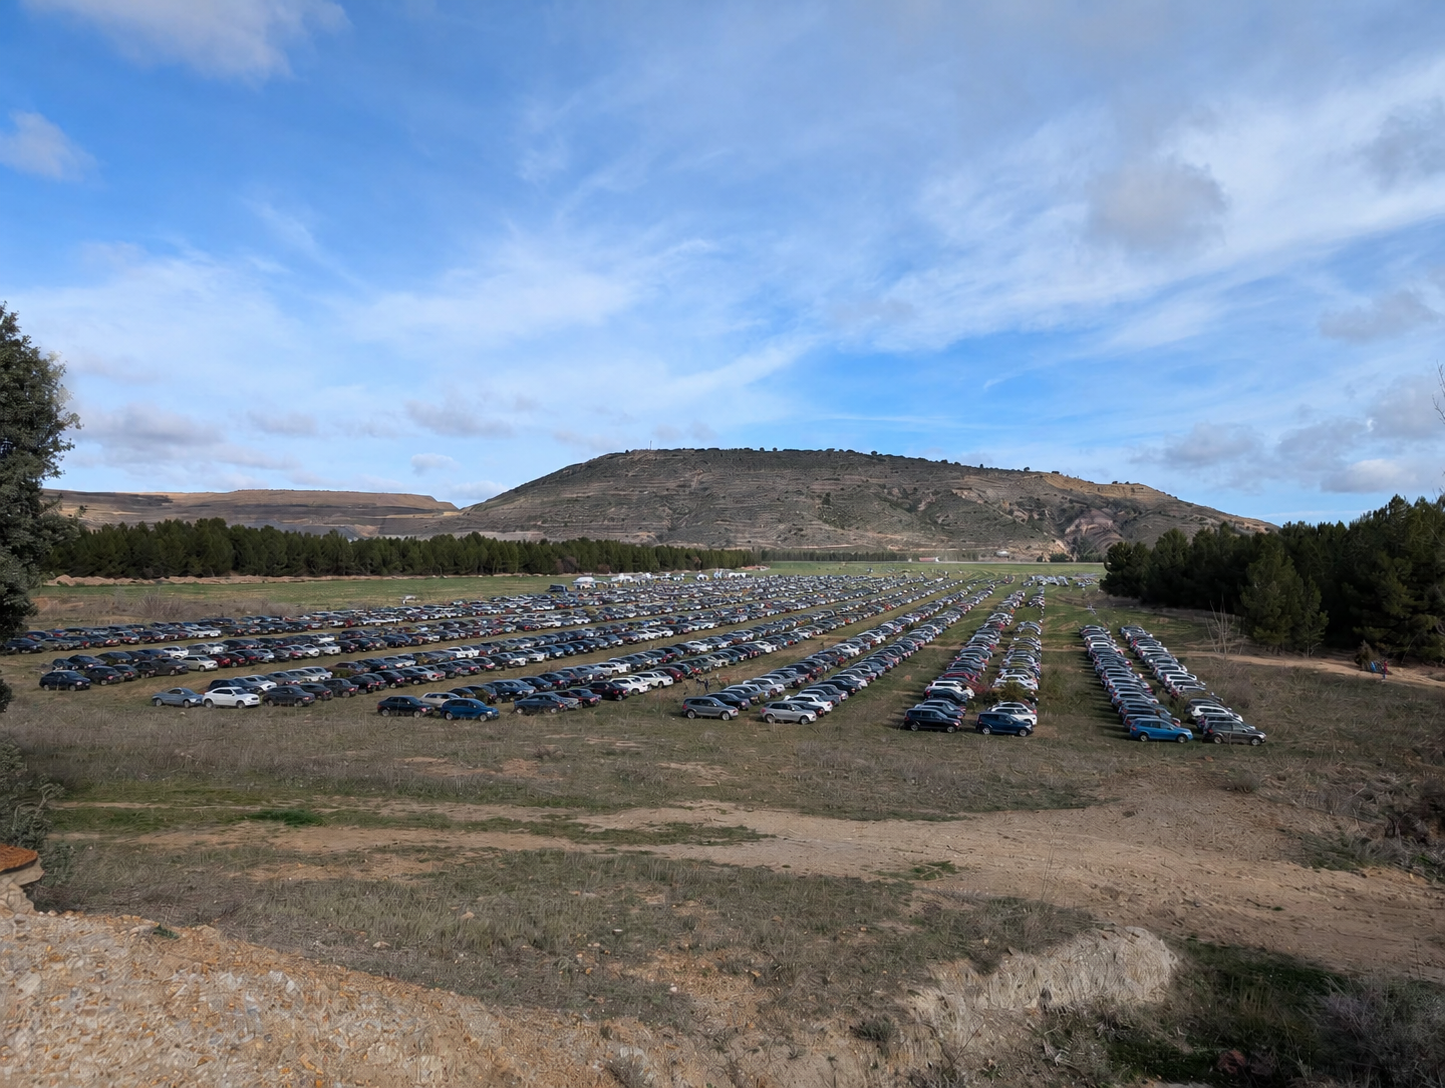
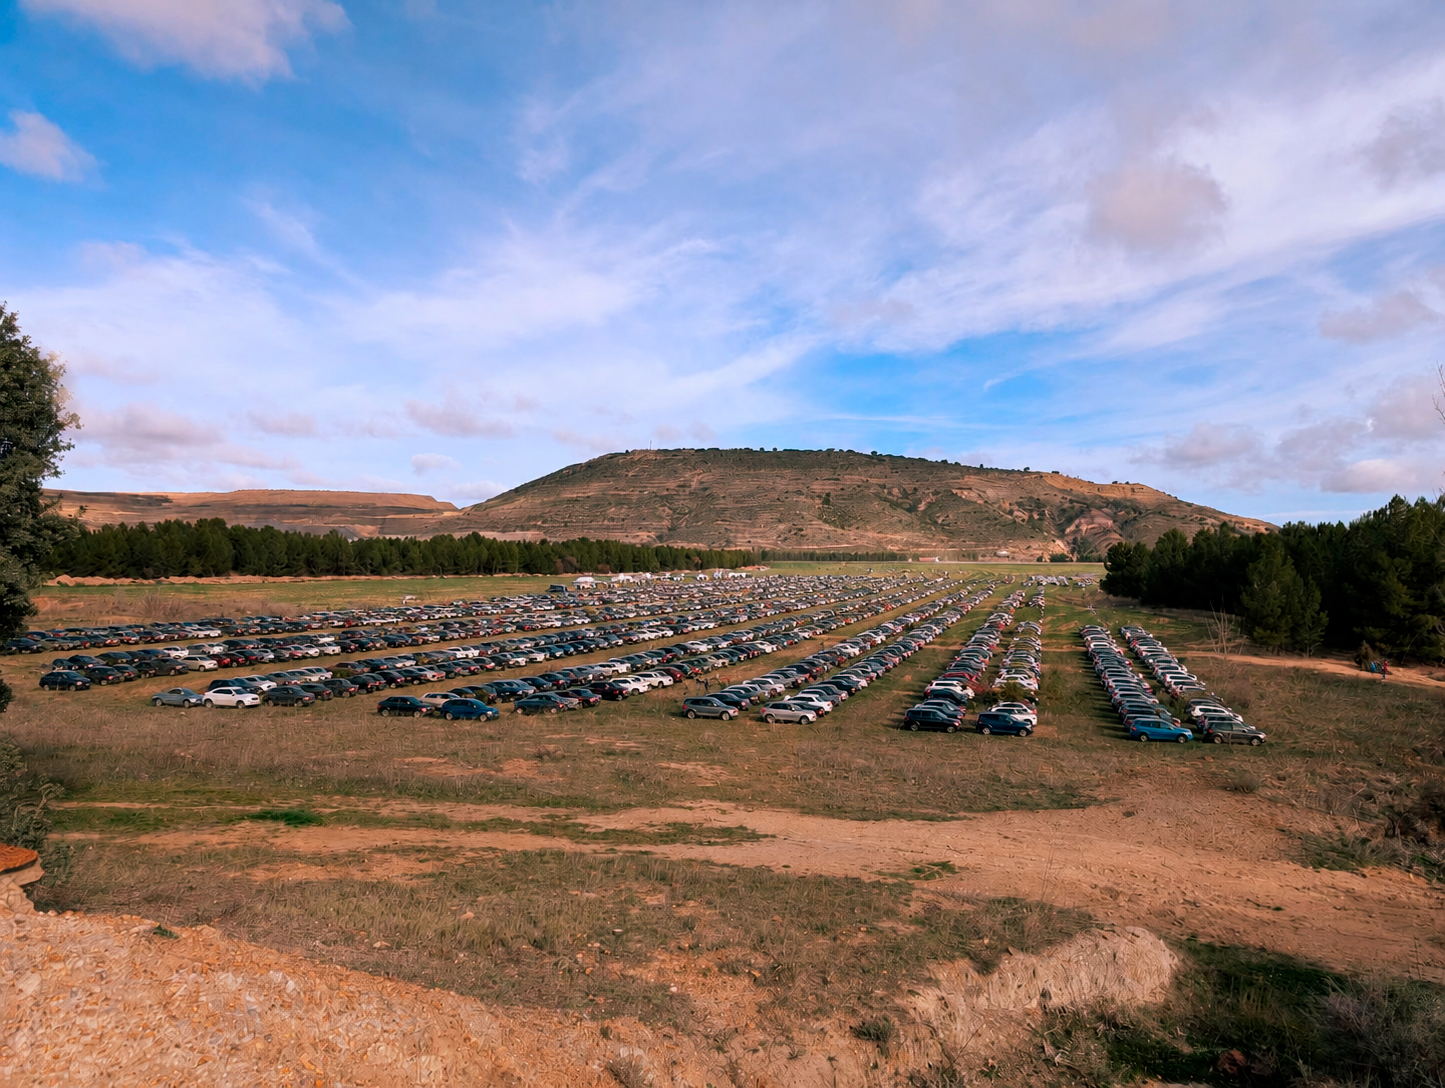
añadidas imagenes al mapa interactivo

diff --git a/js/main.js b/js/main.js
@@ -30,18 +30,32 @@ document.querySelectorAll(".accordion-btn").forEach((button) => {
   });
 });
 
-// ── MAPA INTERACTIVO ───────────────────────────────────────────
-const mapButtons = document.querySelectorAll(".map-point");
-const mapInfo    = document.getElementById("mapInfo");
 
-if (mapButtons.length && mapInfo) {
-  mapButtons.forEach((button) => {
-    button.addEventListener("click", () => {
-      const title = button.dataset.title || "";
-      const text  = button.dataset.text  || "";
-      mapInfo.innerHTML = `<h3>${title}</h3><p>${text}</p>`;
-      mapButtons.forEach((btn) => btn.classList.remove("selected"));
-      button.classList.add("selected");
+/* ── MAPA INTERACTIVO ───────────────────────────────────── */
+
+const mapPoints = document.querySelectorAll(".map-point");
+const mapInfo = document.getElementById("mapInfo");
+
+if (mapPoints.length && mapInfo) {
+  mapPoints.forEach((point) => {
+    point.addEventListener("click", () => {
+      const title = point.getAttribute("data-title");
+      const text = point.getAttribute("data-text");
+      const img = point.getAttribute("data-img");
+
+      mapPoints.forEach((p) => p.classList.remove("active"));
+      point.classList.add("active");
+
+      mapInfo.innerHTML = `
+        <h3>${title}</h3>
+        <p>${text}</p>
+        <img
+          src="${img}"
+          alt="${title}"
+          class="map-info-img"
+          loading="lazy"
+          decoding="async">
+      `;
     });
   });
 }

diff --git a/index.html b/index.html
@@ -684,7 +684,7 @@
           class="map-point camping"
           type="button"
           data-title="Zona de camping"
-          data-text="Parcelas de 5x7 metros para hasta 4 personas. Espacio para tiendas propias, campers y autocaravanas."
+          data-text=" camping con tienda propia, glamping, autocaravanas y campers, barra de bebidas, wc, duchas."
           data-img="assets/img/mapa/camping.png">
           Camping
         </button>
@@ -693,7 +693,7 @@
           class="map-point visionado"
           type="button"
           data-title="Zona de visionado"
-          data-text="Área preparada para observar el eclipse total de Sol con explicación guiada y recomendaciones de seguridad."
+          data-text="Junto al recinto, para la observación del eclipse, observación astronómica, Perseidas."
           data-img="assets/img/mapa/visionado.png">
           Visionado
         </button>
@@ -711,7 +711,8 @@
           class="map-point actividades"
           type="button"
           data-title="Zona de actividades"
-          data-text="Espacio para talleres de astronomía, actividades familiares, cine del cosmos, catas, agromercado y merchandising."
+          data-text="Actividades y charlas astronómicas, ciclo de cine del Cosmos, barras de bebidas, agromercado, taquillas, wc.
+"
           data-img="assets/img/mapa/actividades.png">
           Actividades
         </button>
@@ -720,7 +721,7 @@
           class="map-point parking"
           type="button"
           data-title="Parking"
-          data-text="Parking privado dentro del Festival."
+          data-text="Parking privado junto al Festival."
           data-img="assets/img/mapa/parking.png">
           Parking
         </button>
@@ -730,7 +731,7 @@
           type="button"
           data-title="Acceso principal"
           data-text="Entrada principal al recinto del festival."
-          data-img="assets/img/mapa/acceso.jpg">
+          data-img="assets/img/mapa/acceso.png">
           Acceso principal
         </button>
       </div>
@@ -744,7 +745,7 @@
         </p>
 
         <img
-          src="assets/img/mapa/default.jpg"
+          src="assets/img/mapa/default.png"
           alt="Mapa interactivo"
           class="map-info-img">
       </div>